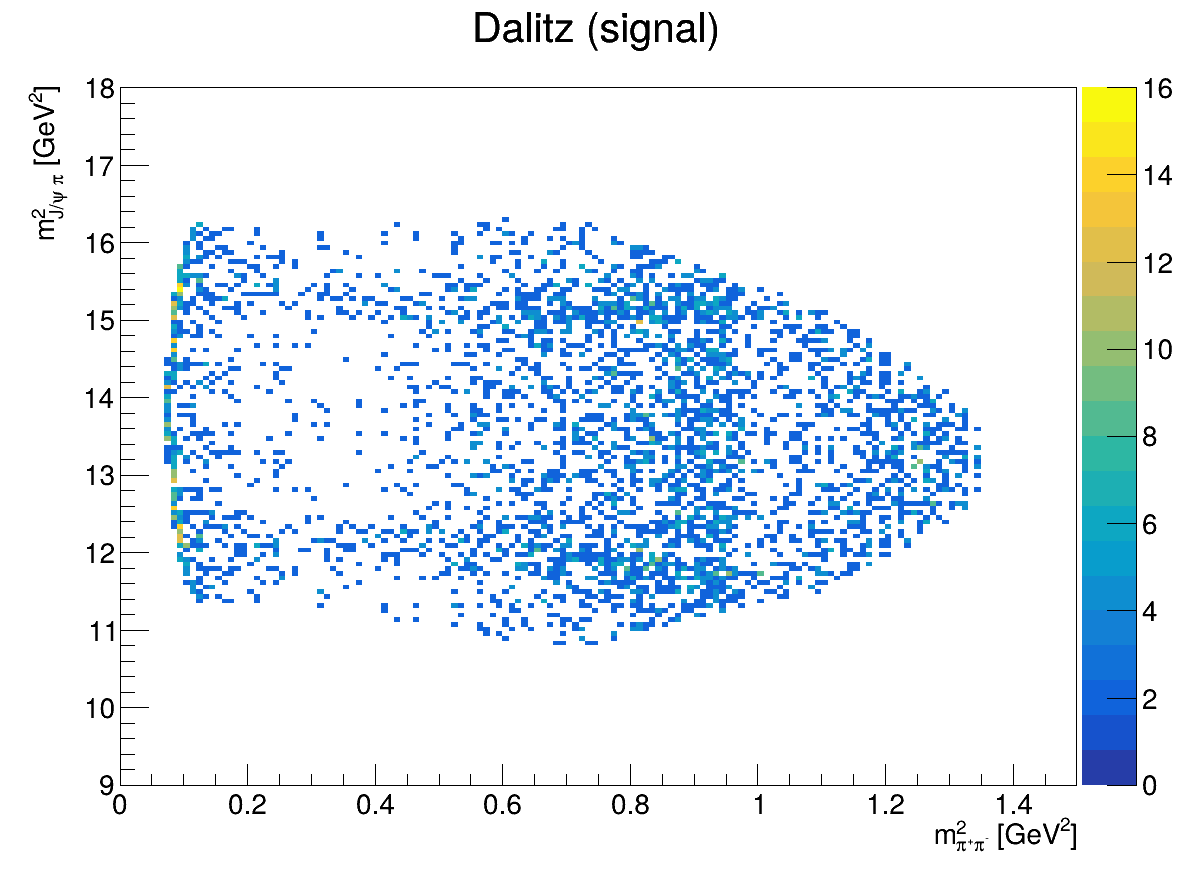
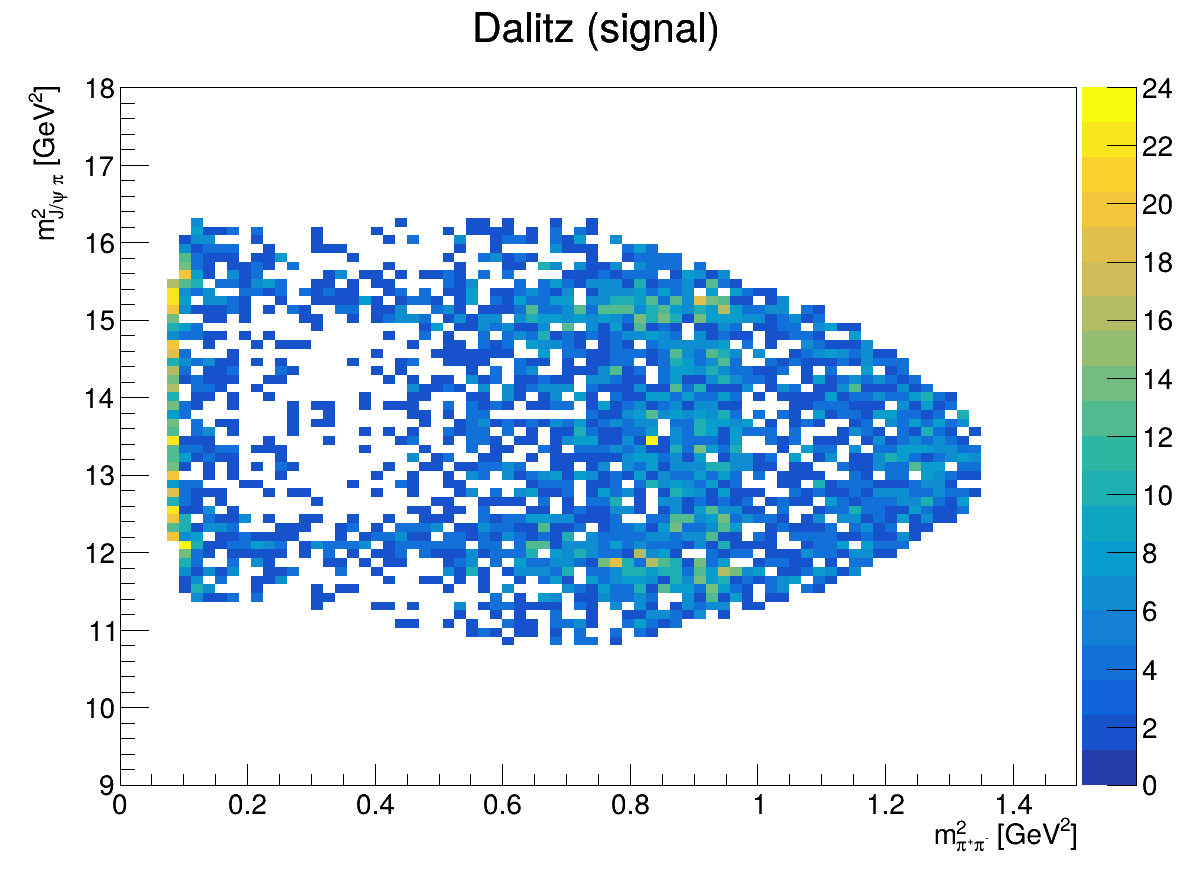
fixed binning

diff --git a/part2_KinFit/ZcAnalysis.C b/part2_KinFit/ZcAnalysis.C
@@ -87,23 +87,23 @@ TH1D* h1_mJpsi_recoil = new TH1D(
 TH2D* h2_dalitz = new TH2D(
 "h2_dalitz",
 "Dalitz plot; m^{2}_{#pi^{+}#pi^{-}} [GeV^{2}]; m^{2}_{J/#psi #pi} [GeV^{2}]",
-150,0,1.5,
-150,9,18
+80,0,1.5,
+80,9,18
 );
 
 // ===== NEW HISTOGRAMS =====
 TH2D* h2_dalitz_sig = new TH2D(
 "h2_dalitz_sig",
 "Dalitz (signal); m^{2}_{#pi^{+}#pi^{-}} [GeV^{2}]; m^{2}_{J/#psi #pi} [GeV^{2}]",
-150,0,1.5,
-150,9,18
+80,0,1.5,
+80,9,18
 );
 
 TH2D* h2_dalitz_sb = new TH2D(
 "h2_dalitz_sb",
 "Dalitz (sideband); m^{2}_{#pi^{+}#pi^{-}} [GeV^{2}]; m^{2}_{J/#psi #pi} [GeV^{2}]",
-150,0,1.5,
-150,9,18
+80,0,1.5,
+80,9,18
 );
 // problem 4.1
 TH1D* h1_mJpsi_pipi = new TH1D(
